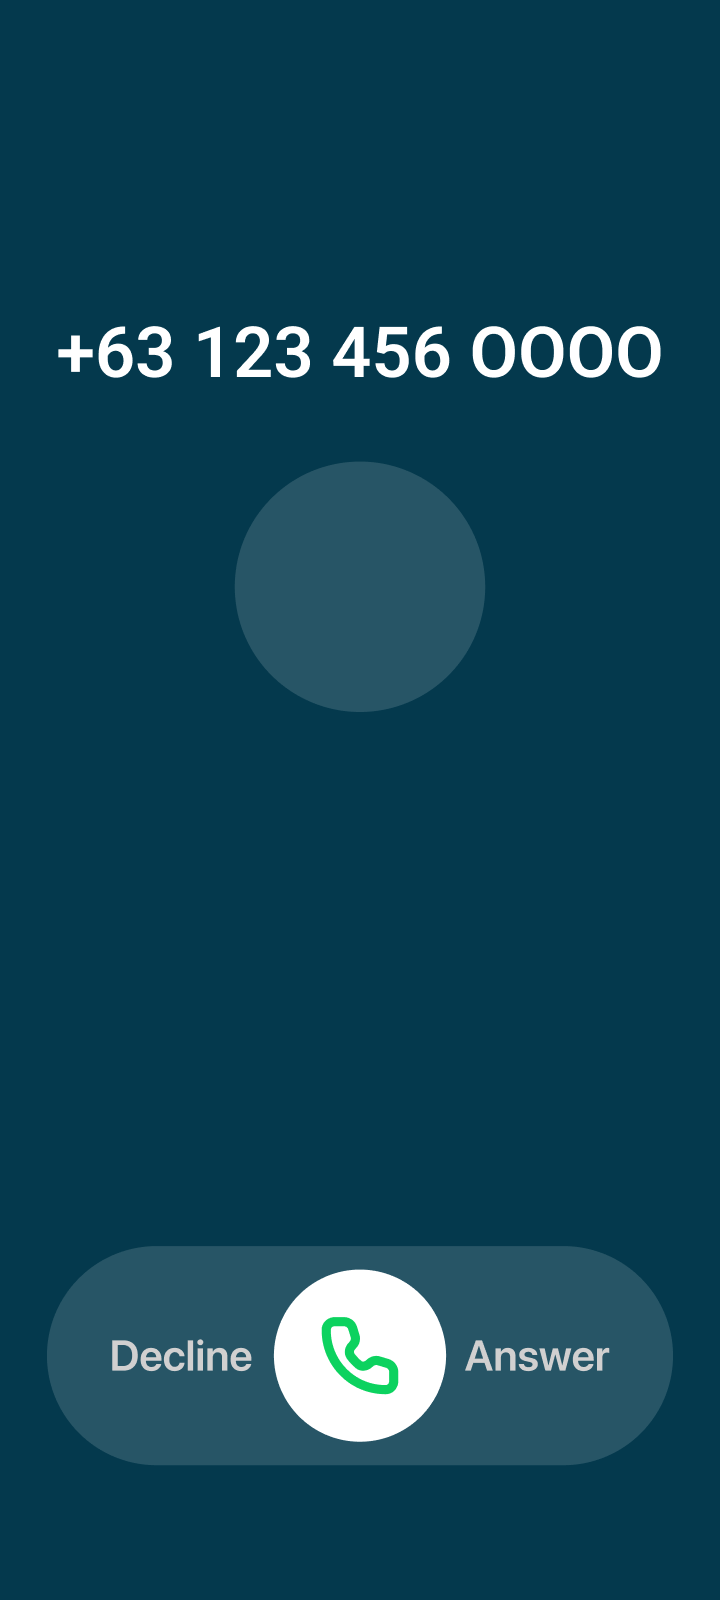
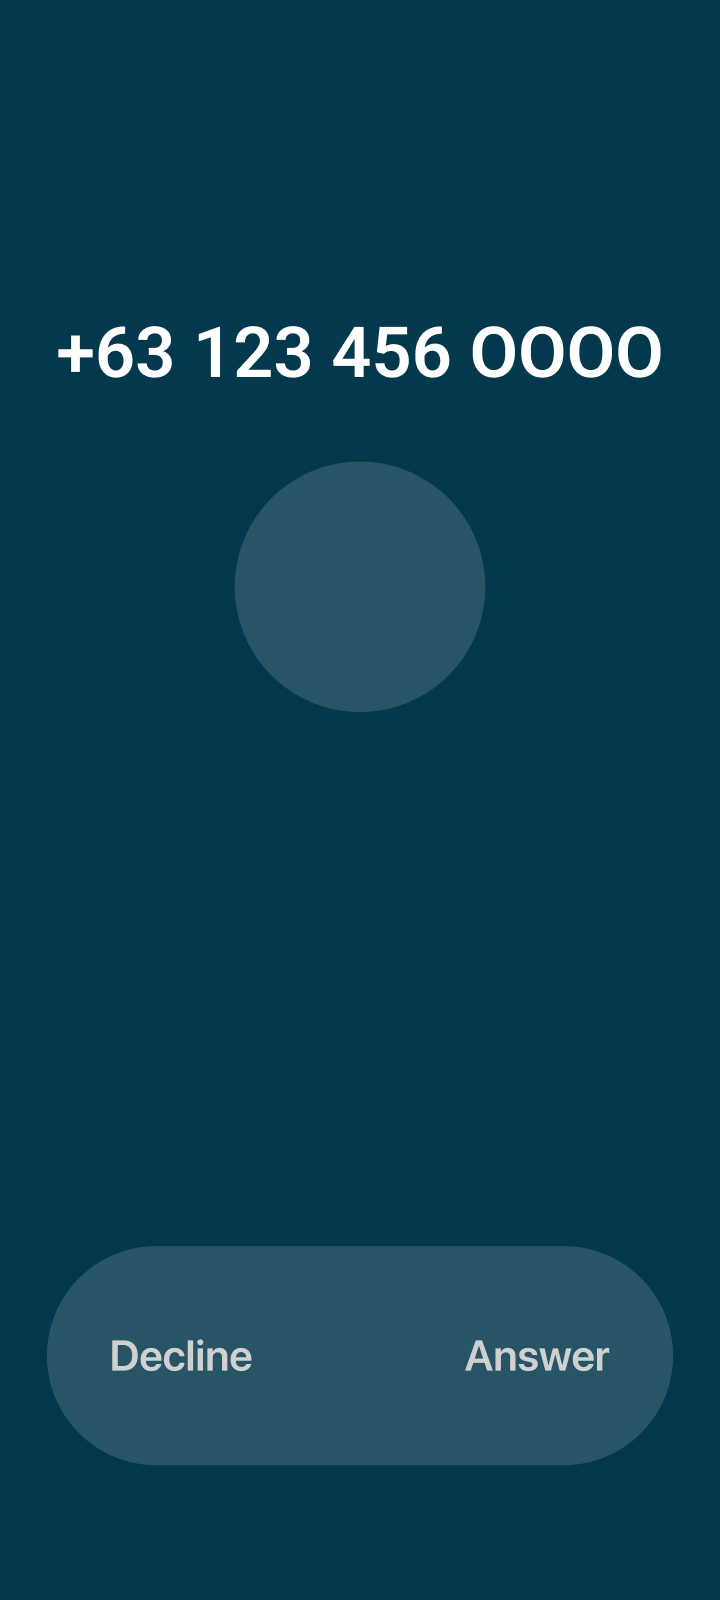
V1 C1: Part 2 becomes a static auto-play (no handle, no drag, no chevrons)
The pill ends glow red then green, red spreads from Decline across the
pill, then the call auto-declines to the home screen with Vee. The
Answer step is hidden, and the full-screen call export no longer shows
the answer button.

Changed region(s): [[0.3667, 0.7812, 0.6417, 0.9062]]

diff --git a/index.html b/index.html
@@ -178,6 +178,15 @@ h1{font-size:24px;line-height:31px;font-weight:600;margin:0;text-wrap:balance}
 @keyframes shl{0%,100%{opacity:.35;transform:none}50%{opacity:.9;transform:translateX(-2px)}}
 @keyframes shr{0%,100%{opacity:.35;transform:none}50%{opacity:.9;transform:translateX(2px)}}
 .v1.nosearch.s4 .chev,.v1.nosearch.go .chev{opacity:0;animation:none}
+/* C1 Part 2 is non-interactive (2026-11-16): no handle, no chevrons. The pill ends glow (red, then green), red spreads from Decline across the pill, then the call auto-declines. */
+.v1.nosearch .handle,.v1.nosearch .chev{display:none}
+.v1.nosearch.glow .eg.l{animation:egin .4s ease-out .6s both} .v1.nosearch.glow .eg.r{animation:egin .4s ease-out 1.2s both}
+@keyframes egin{from{opacity:0}to{opacity:1}}
+.v1.nosearch.glow.still .eg{opacity:1;animation:none}
+.v1.nosearch.spread .eg.l,.v1.nosearch.go .eg.l{opacity:1;animation:none;width:160px;border-radius:28px;background:linear-gradient(90deg,rgba(255,77,94,.9),rgba(255,77,94,.4))}
+.v1.nosearch.spread .eg.l{transition:width .5s cubic-bezier(.5,0,.3,1)}
+.v1.nosearch.spread .eg.r{animation:egout .3s ease-in both} .v1.nosearch.go .eg.r{opacity:0;animation:none}
+@keyframes egout{from{opacity:1}to{opacity:0}}
 
 .v1 .handle.spring{transition:left .35s cubic-bezier(.3,1.5,.5,1)}
 .v1 .handle.slide{transition:left .55s cubic-bezier(.6,0,.3,1)}
@@ -308,7 +317,7 @@ html.pvon,html.pvon body{overflow:hidden}
 
   <div class="vsel">
     <div class="tabs" role="tablist" aria-label="Presentation version">
-      <button class="tab" role="tab" aria-selected="true" data-v="v1" data-desc="C1 opens with the splash (call bubbles → phone pops in), then rings and vibrates; the Whoscall dialog shows “Scammer” and a hint shows the handle can go both ways. Drag to Decline or Answer; left alone, it slides to Decline. Tap “Replay from splash” to see the opening again.">V1 · Simulated call</button>
+      <button class="tab" role="tab" aria-selected="true" data-v="v1" data-desc="C1 opens with the splash (call bubbles → phone pops in), then rings and vibrates; the Whoscall dialog shows “Scammer”, the Decline end glows red and the Answer end glows green, then the call declines by itself (no interaction). Tap “Replay from splash” to see the opening again.">V1 · Simulated call</button>
       <button class="tab" role="tab" aria-selected="false" data-v="v2" data-desc="Drag the slider freely; toward After the background glows. It wiggles first, then slides to After by itself if left alone.">V2 · Before / After</button>
     </div>
     <p class="vdesc" id="vdesc"></p>
@@ -361,7 +370,7 @@ html.pvon,html.pvon body{overflow:hidden}
 <script>
 const HIDE_C2=true; if(HIDE_C2) document.documentElement.classList.add('hide-c2');
 const A='prototype_assets/';
-const VER='?v=20261112q';
+const VER='?v=20261116a';
 const NOSEARCH=new Set(['c1']); // candidates that skip the Searching beat (phone vibrates instead)
 const BEATS=['Ringing','Searching','Identified','Declined','Answered'];
 const screens=[...document.querySelectorAll('.screen')];
@@ -370,6 +379,7 @@ let ver='v1', playing=true; const sliders=[];
 const bg=(c,f)=>`background-image:url(${A}${f.replace('C',c)}${VER})`;
 const GEO={c1:{C:70,MIN:16,MAX:124,HW:44},c2:{C:68,MIN:16,MAX:120,HW:48}}, G=c=>GEO[c.el.dataset.c]||GEO.c2, TRIG=36; const HINT_AT=600, HINT_LEN=1200, AUTO_NS=3500, P1_LEN=3900; // C1: idle 3.5 s in wait → auto-slide to Decline           // handle left (px) inside the clip
 const T_S2=1500, T_S3=2700, AUTO=4500;
+const GLOW_LEN=1800, SPREAD_LEN=500; // C1 Part 2 (static): glows 0.6–1.6s after the dialog, then red spreads 0.5s before the auto-decline
 const ctrls=screens.map(el=>({el,timers:[],state:'s1',extra:'',choice:'dec',busy:false}));
 const VEE=`<div class="vee" aria-live="polite"><p class="bub"><span class="bd">You avoided a high-risk call!</span><span class="ba">Now you know who's calling you!</span></p><img src="${'prototype_assets/'}vee.svg" alt=""></div>`;
 const VEE_NS=`<div class="vee" aria-live="polite"><p class="bub"><span class="bd">You avoided a high-risk call!</span><span class="ba">Now you know who's calling you!</span></p><div class="veel" aria-hidden="true"><div class="veelin"></div></div></div>`;
@@ -420,7 +430,8 @@ function schedule(c,from){ // continue the story from a beat
   if(from<=1){ c.locked=NOSEARCH.has(c.el.dataset.c); setState(c,'s1',{anim:from===1}); markStep(0); at(c,T_S2,()=>schedule(c,2)); return; }
   if(from===2&&NOSEARCH.has(c.el.dataset.c)){ schedule(c,3); return; }
   if(from===2){ setState(c,'s2'); markStep(1); at(c,T_S3-T_S2,()=>schedule(c,3)); return; }
-  if(NOSEARCH.has(c.el.dataset.c)){ c.locked=true; setState(c,'s3',{extra:'hint'}); markStep(2); at(c,HINT_AT+HINT_LEN,()=>waitPhase(c)); return; }
+  if(NOSEARCH.has(c.el.dataset.c)){ c.locked=true; setState(c,'s3',{extra:'glow'}); markStep(2); // C1: static auto-play, no drag
+    at(c,GLOW_LEN,()=>{ setState(c,'s3',{extra:'glow spread'}); at(c,SPREAD_LEN,()=>{ setHandle(c,G(c).MIN); choose(c,'dec',false); }); }); return; }
   setState(c,'s3',{extra:'wait'}); markStep(2);
   at(c,AUTO,()=>{ setHandle(c,G(c).MIN,'slide'); at(c,560,()=>choose(c,'dec',false)); });
 }
@@ -453,7 +464,7 @@ function bindDrag(c){
     if(e.key==='ArrowRight'){ e.preventDefault(); setHandle(c,G(c).MAX,'slide'); setTimeout(()=>choose(c,'ans',true),300); } });
 }
 function showStatic(i){ ctrls.forEach(c=>{ clr(c); c.locked=false; c.busy=i>=3; setHandle(c,G(c).C);
-  if(i<3) setState(c,['s1','s2','s3'][i],{anim:false,extra:i===2?'wait':''});
+  if(i<3) setState(c,['s1','s2','s3'][i],{anim:false,extra:i===2?(NOSEARCH.has(c.el.dataset.c)?'glow still':'wait'):''});
   else { const w=i===3?'dec':'ans'; c.choice=w; setState(c,'s4',{anim:false,extra:w+' settled'}); } }); markStep(i); }
 /* ---------- V2 ---------- */
 function renderV2(el){const c=el.dataset.c; el.className='screen v2'; el.style.setProperty('--p','.5');
@@ -491,7 +502,7 @@ const stepsEl=document.getElementById('steps');
 const stepBtns=BEATS.map((name,i)=>{const x=document.createElement('button');x.className='step';x.type='button';x.textContent=name;
   x.addEventListener('click',()=>{ playing=false; play.textContent='Play'; play.setAttribute('aria-pressed','false'); showStatic(i); });
   stepsEl.appendChild(x);return x;});
-if(HIDE_C2) stepBtns[1].hidden=true; // Searching only exists in C2
+if(HIDE_C2){ stepBtns[1].hidden=true; stepBtns[4].hidden=true; } // Searching only exists in C2; C1 has no Answer result (static auto-play)
 const play=document.getElementById('play'), replay=document.getElementById('replay'), v2note=document.getElementById('v2note');
 play.addEventListener('click',()=>{ playing=!playing; play.textContent=playing?'Pause':'Play'; play.setAttribute('aria-pressed',String(playing)); if(playing) ctrls.forEach(runStory); else ctrls.forEach(clr); });
 replay.addEventListener('click',()=>{ if(ver==='v1'){ playing=true; play.textContent='Pause'; play.setAttribute('aria-pressed','true'); ctrls.forEach(c=>runStory(c,true)); } else restartDemo(); });
